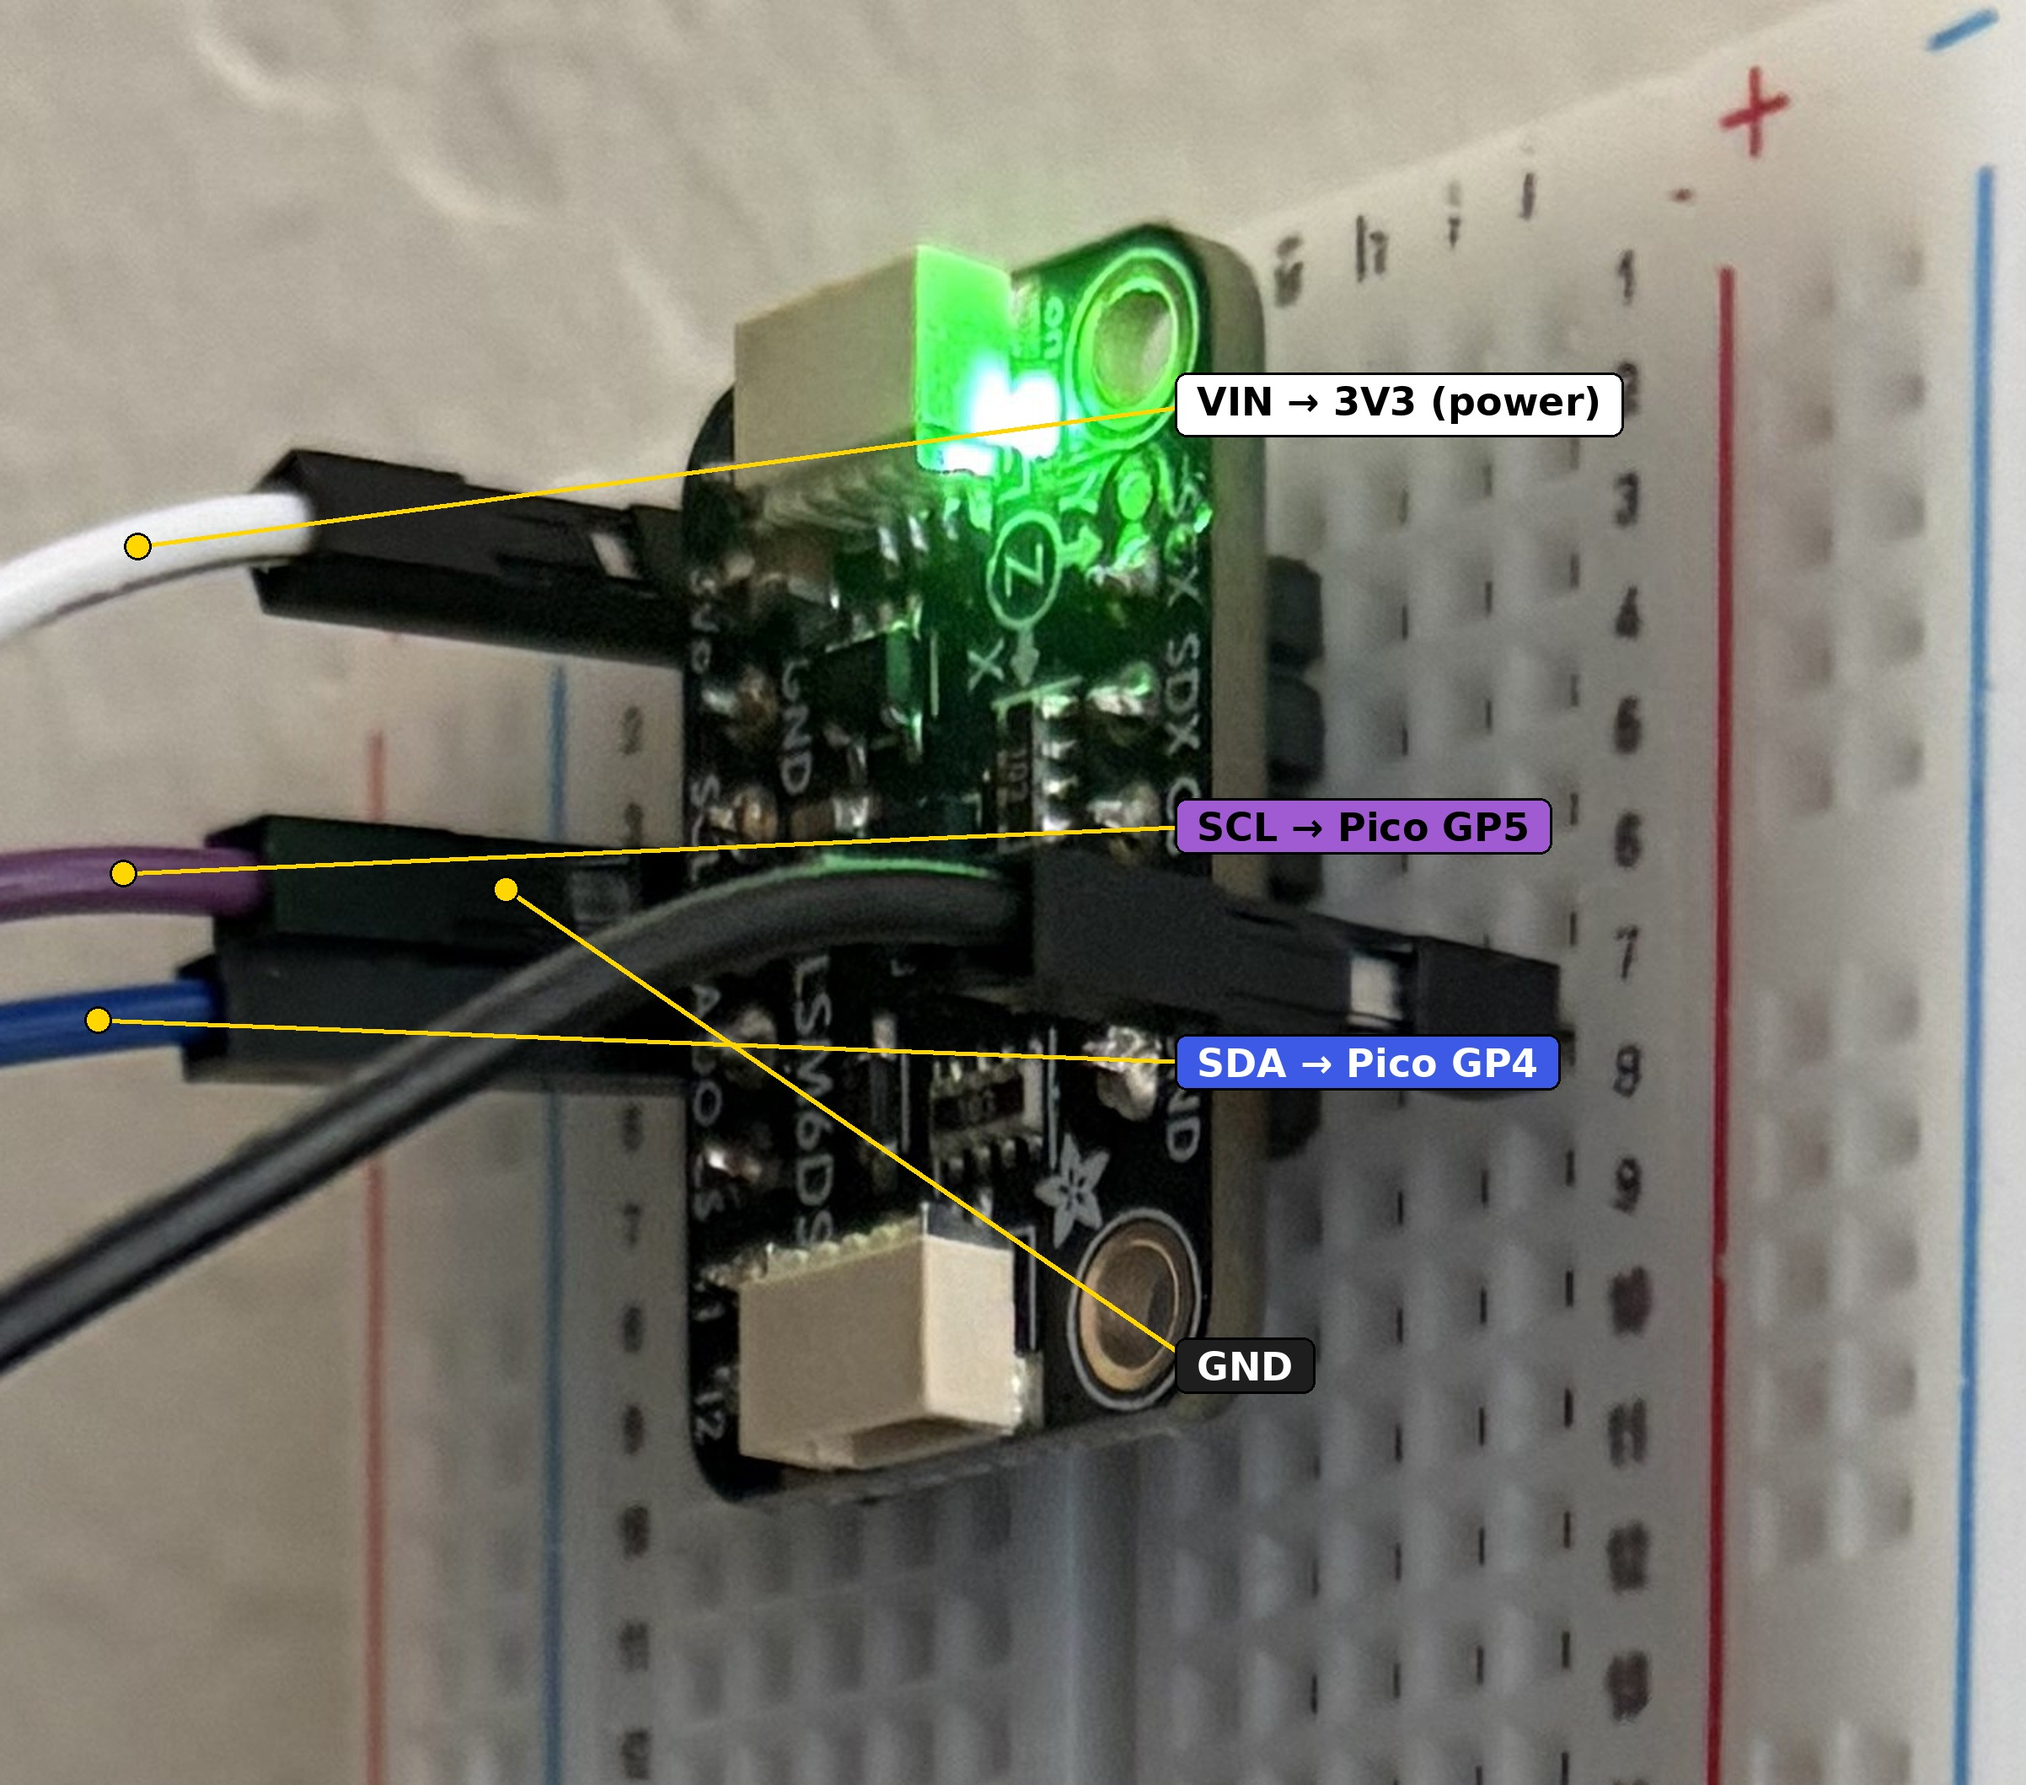
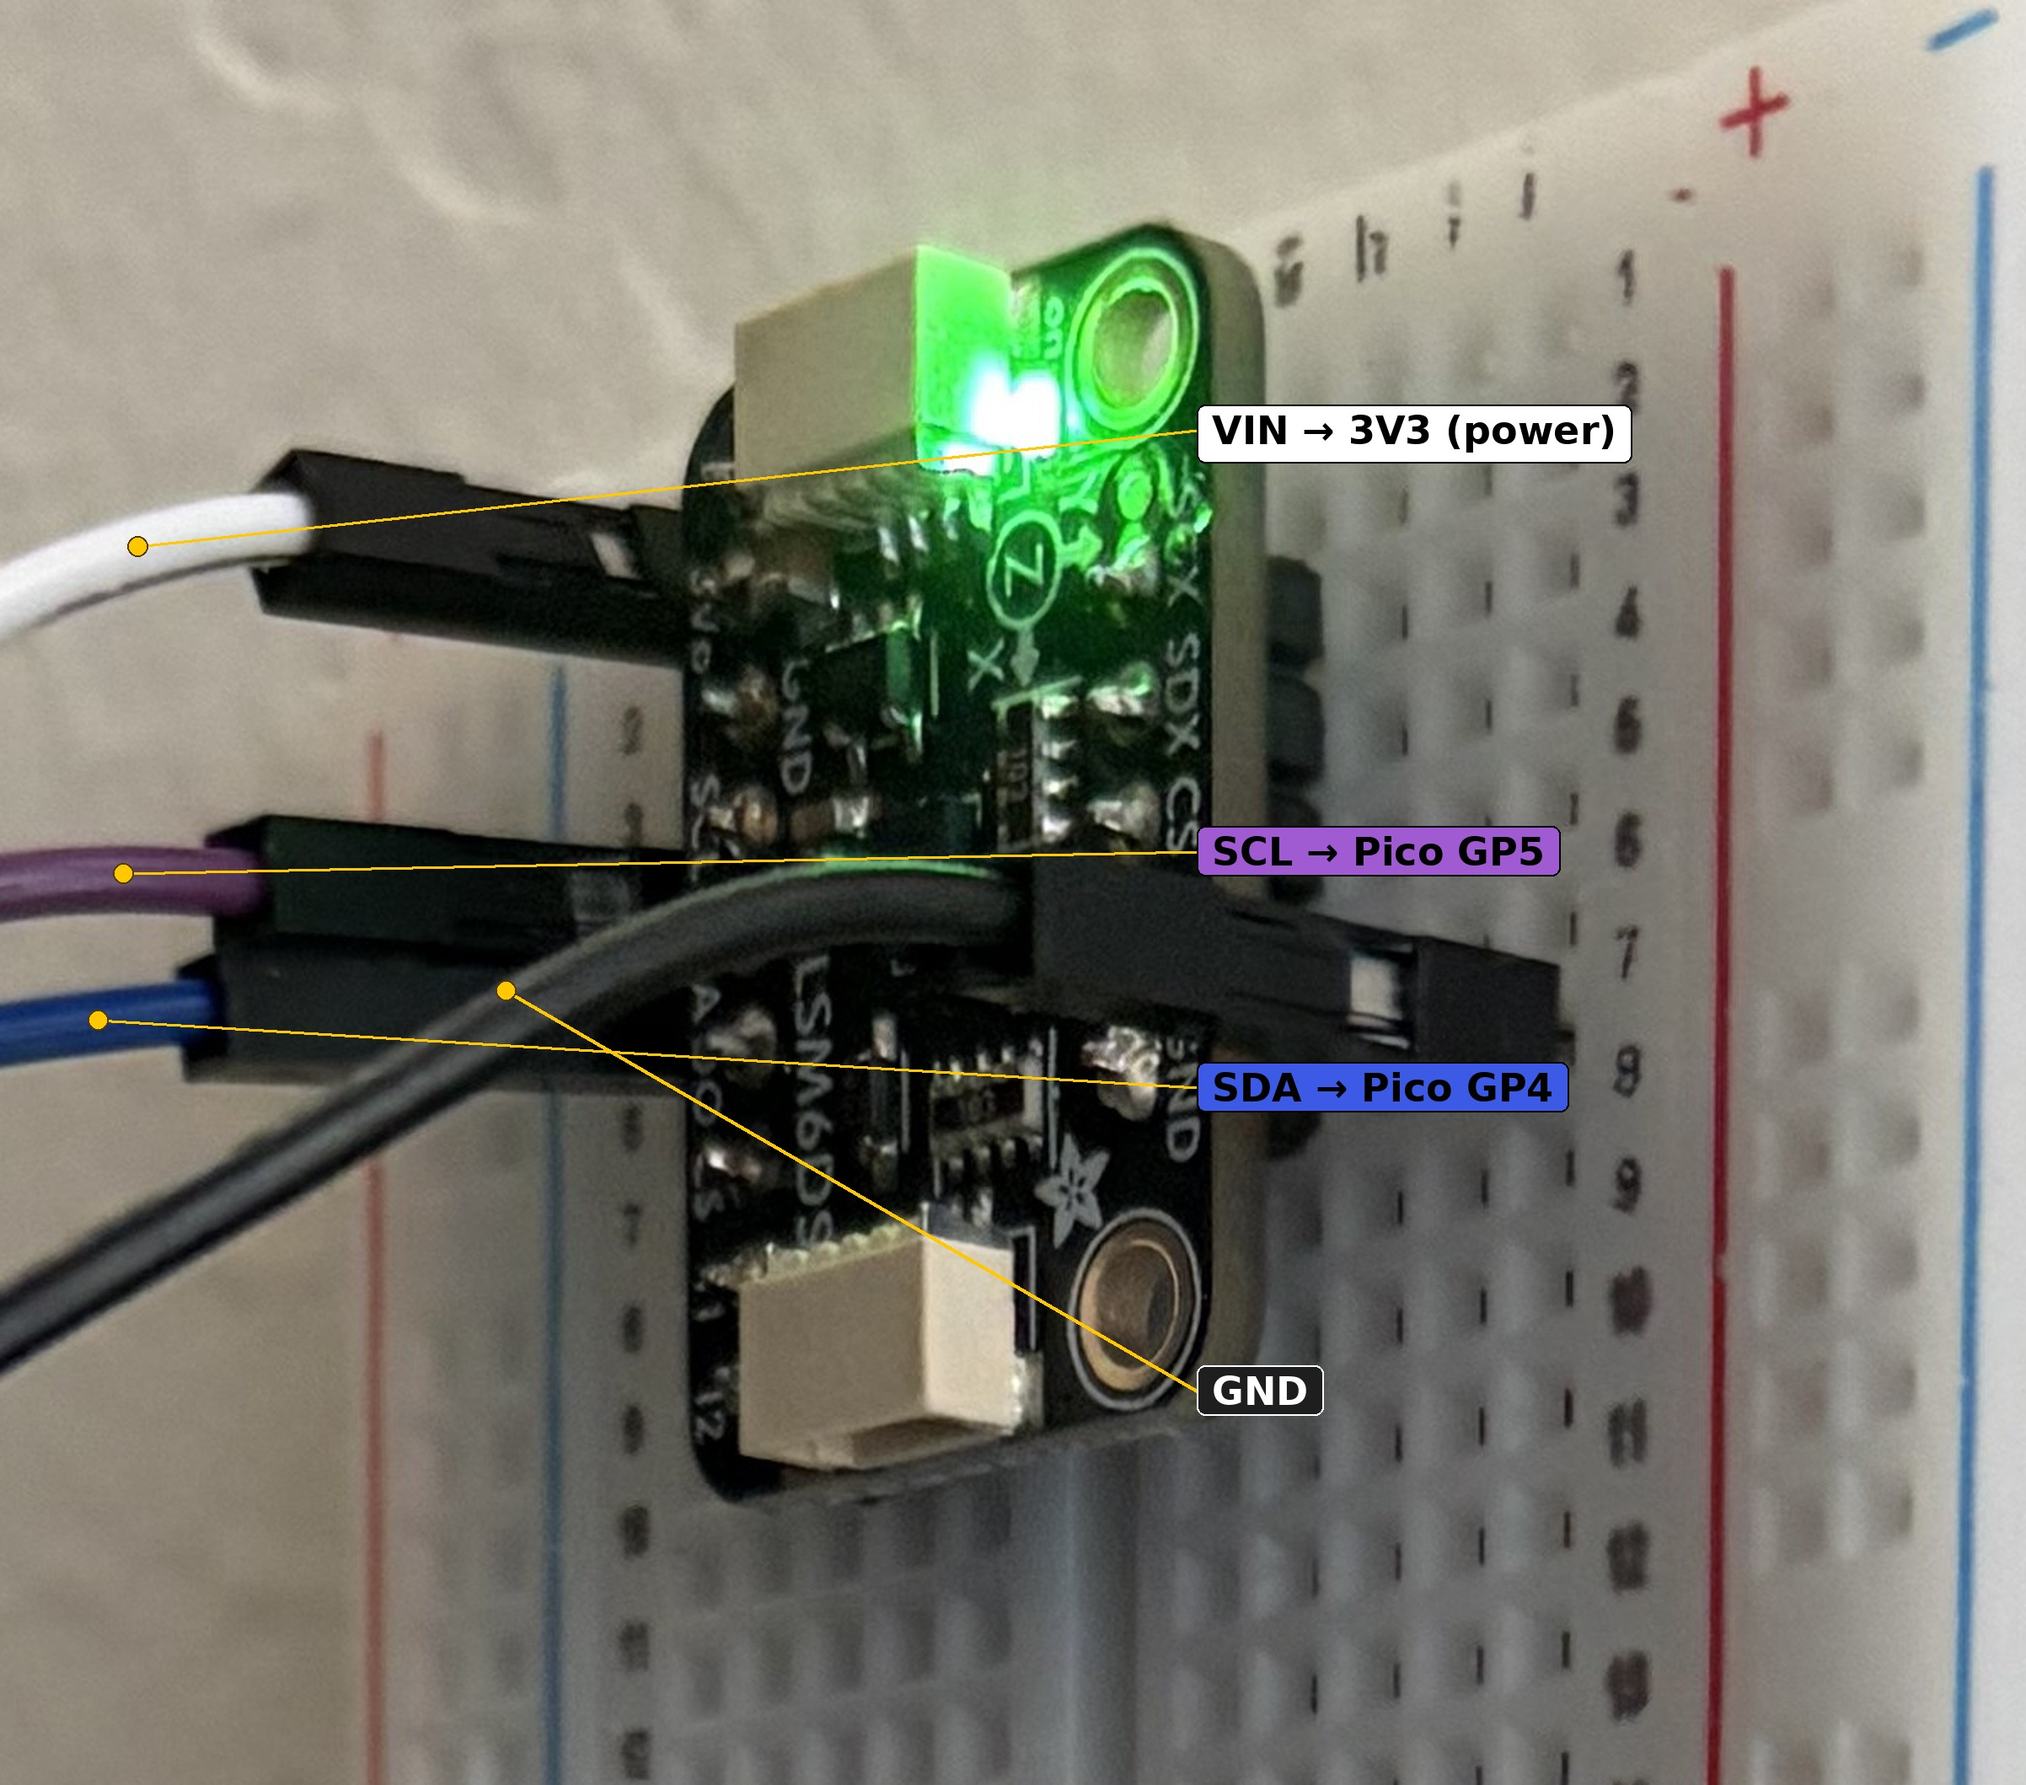
Increase trigger sensitivity, add live tuning debug output

diff --git a/main.py b/main.py
@@ -33,16 +33,33 @@ LTA_TAU_S = 30.0  # long-term average time constant (seconds)
 BASELINE_TAU_S = 120.0  # very slow EMA tracking the resting ~1g offset
 WARMUP_S = 90  # ignore triggers for this long after boot, while STA/LTA settle
 
-TRIGGER_RATIO = 4.0  # STA/LTA ratio that starts an event
+TRIGGER_RATIO = 2.5  # STA/LTA ratio that starts an event -- lower catches
+# smaller tremors, but raises the false-trigger rate from footsteps/doors on a
+# loose mount. 4.0 was tuned conservative; drop further (e.g. 2.0) once you've
+# watched the idle ratio (see DEBUG_STATUS below) and know your noise floor.
 DETRIGGER_RATIO = 1.3  # STA/LTA ratio that ends an event
 TRIGGER_CONFIRM_SAMPLES = 3  # consecutive over-threshold samples required to fire
-MIN_EVENT_MS = 300  # basic floor against instant one-sample blips; note that STA
+MIN_EVENT_MS = 150  # basic floor against instant one-sample blips; note that STA
 # smoothing itself stretches a brief tap into a longer-looking event (a single
 # knock can still end up reported as ~1s long), so this alone won't cleanly
 # separate "someone bumped the table" from a real quake -- amplitude is the
 # more reliable signal for that: a tap is a low peak-g event, a real quake is not.
 AMPLITUDE_SCALE = 3000  # peak g-deviation * this = reported amplitude (0-1000, clipped)
+DEBUG_STATUS = True  # print the live STA/LTA ratio every few seconds -- turn
+# this on while tuning so you can see how close ambient noise sits to
+# TRIGGER_RATIO, then turn it off (or just ignore the extra print) once happy.
+DEBUG_STATUS_INTERVAL_S = 3
 # -------------------------------------------------------------------------
+
+# IMPORTANT while testing: WARMUP_S below only blocks *triggering* -- the
+# LTA (ambient noise floor) and baseline keep updating the entire time,
+# warmup included. If you shake the board hard during those first 90s to see
+# if it "works," that shake gets absorbed into LTA as if it were normal
+# background noise, which raises your effective threshold for the next
+# ~30-90s (LTA's own time constant) even after warmup ends -- so a second
+# test shake right after can look like it "doesn't trigger" when really the
+# first shake poisoned the baseline. Power-cycle, leave it completely still
+# for the full warmup, *then* do your test shake.
 
 
 def connect_wifi():
@@ -117,6 +134,7 @@ def main():
 
     boot_time = time.ticks_ms()
     last_t = boot_time
+    last_debug_print = boot_time
 
     while True:
         x, y, z = sensor.acceleration()
@@ -139,6 +157,13 @@ def main():
 
         ratio = (sta / lta) if lta > 0.0005 else 0.0
         warmed_up = time.ticks_diff(now, boot_time) > WARMUP_S * 1000
+
+        if DEBUG_STATUS and not triggered:
+            if time.ticks_diff(now, last_debug_print) >= DEBUG_STATUS_INTERVAL_S * 1000:
+                last_debug_print = now
+                print("status: ratio=%.2f sta=%.5f lta=%.5f dev=%.5f%s" % (
+                    ratio, sta, lta, dev, "" if warmed_up else " (warming up)"
+                ))
 
         if not triggered:
             if warmed_up and ratio > TRIGGER_RATIO:

diff --git a/README.md b/README.md
@@ -74,9 +74,24 @@ station's private API key. Never commit it.
 ## Tuning
 
 The tunables at the top of `main.py` (trigger sensitivity, warmup time,
-amplitude scaling, etc.) are commented inline. If your mount is picking up
-too much local noise (footsteps, doors), a more rigid mount (bolted/clamped
-rather than sitting loose on a desk) helps more than retuning thresholds.
+amplitude scaling, etc.) are commented inline. Set `DEBUG_STATUS = True`
+(on by default) and watch the Shell/REPL output: it prints the live
+STA/LTA ratio every few seconds so you can see where your ambient noise
+floor actually sits before deciding how far to lower `TRIGGER_RATIO`.
+
+To catch smaller tremors, lower `TRIGGER_RATIO` (default `2.5`, down from
+an initial `4.0`) -- the lower it goes, the more sensitive, but also the
+more prone to false triggers from footsteps or doors on a loose mount. If
+your mount is picking up too much local noise, a more rigid mount
+(bolted/clamped rather than sitting loose on a desk) helps more than
+retuning thresholds.
+
+**Testing gotcha:** `WARMUP_S` (default 90s) only blocks *triggering* --
+the ambient-noise baseline keeps updating the whole time, warmup included.
+Shaking the board to "test" it during warmup gets absorbed as normal
+background noise and raises your effective threshold for a while after
+warmup ends too. Power-cycle, leave it completely still for the full
+warmup, *then* do a test shake.
 
 ## License
 
